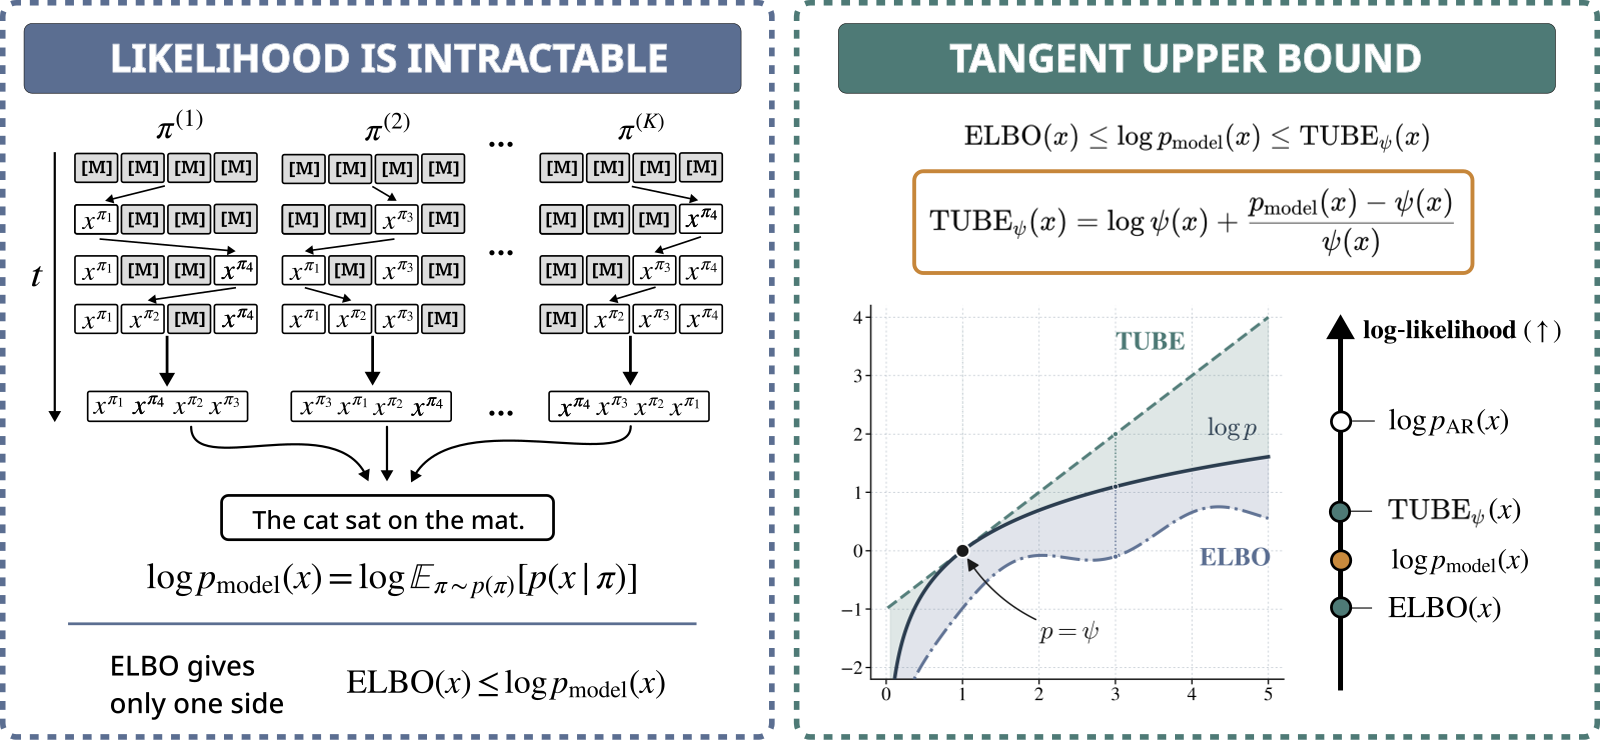
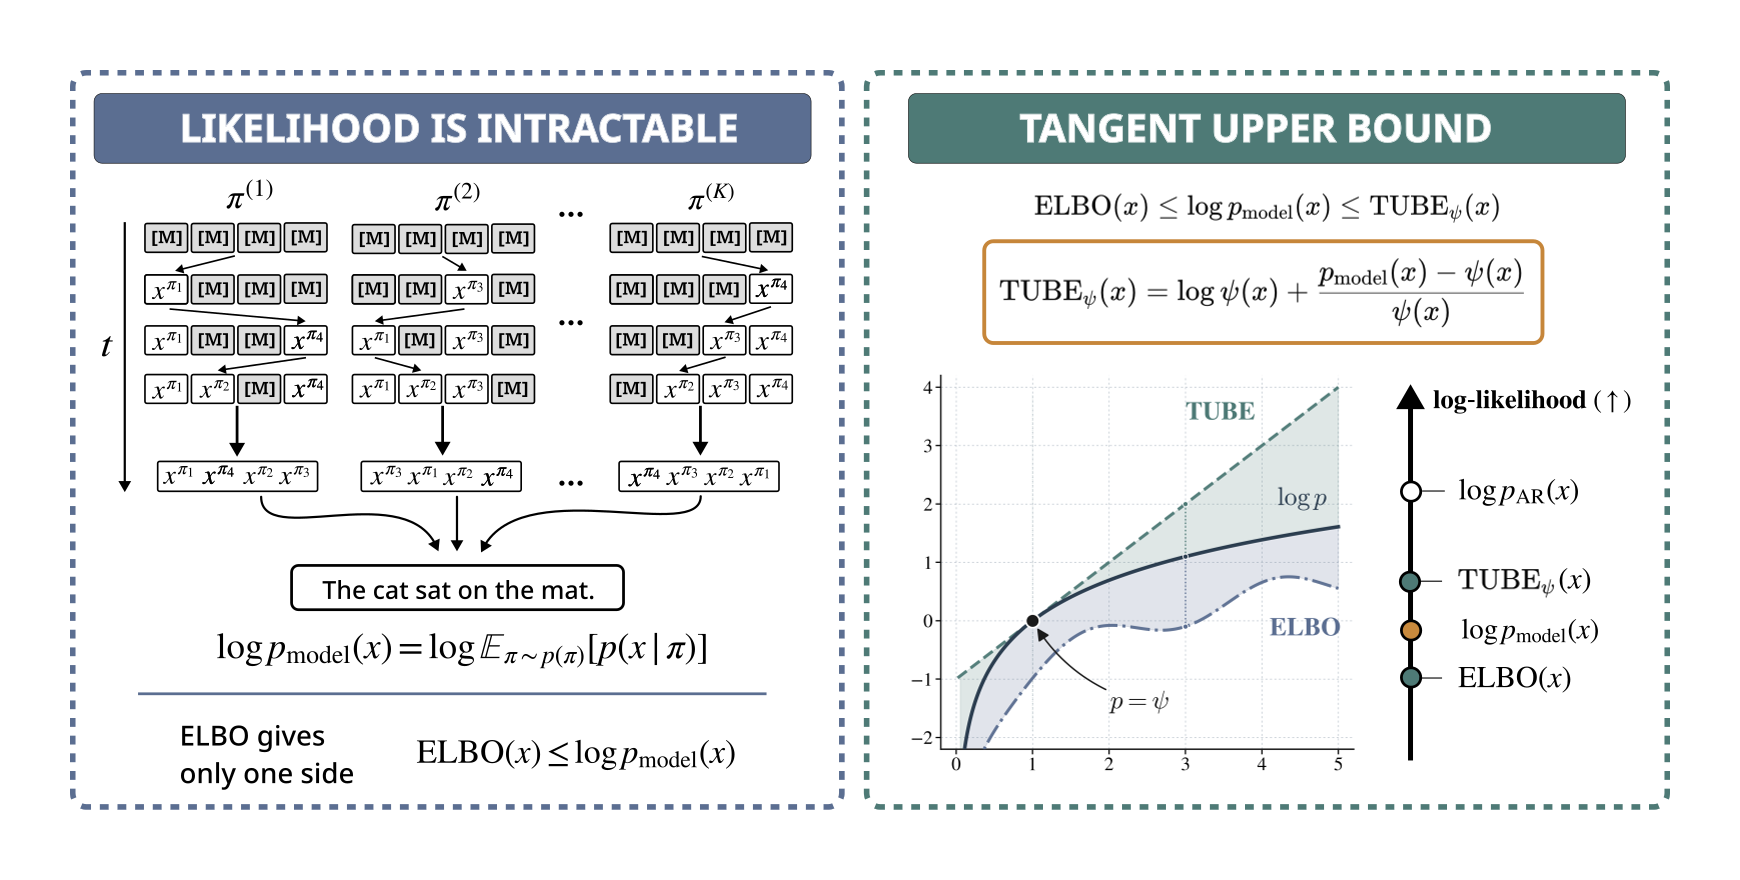
README: posterior-refinement style (authors, badges, figure, abstract)

diff --git a/README.md b/README.md
@@ -1,21 +1,32 @@
-# TUBE: Tangent Upper Bound on Evidence for Discrete Diffusion Language Models
+<h1 align="center">TUBE: Tangent Upper Bound on Evidence<br>for Discrete Diffusion Language Models</h1>
+
+<div align="center">
+
+**[Arseny Ivanov](https://scholar.google.com/citations?user=lvr79TEAAAAJ&hl=ru)**<sup>1,2,3</sup>,
+**[Sergei Kholkin](https://scholar.google.com/citations?user=KwhztSMAAAAJ&hl=en)**<sup>2</sup>,
+**[Vladislav Gromadskii](https://www.researchgate.net/profile/Vladislav-Gromadskii)**<sup>2</sup>,
+**[Grigoriy Ksenofontov](https://scholar.google.com/citations?user=e0mirzYAAAAJ&hl=ru)**<sup>2,4</sup>,
+**[Ivan Oseledets](https://scholar.google.com/citations?user=5kMqBQEAAAAJ&hl=en)**<sup>1,2</sup>,
+**[Alexander Korotin](https://scholar.google.com/citations?user=1rIIvjAAAAAJ&hl=ru)**<sup>2,1</sup>
+
+<sup>1</sup>AXXX &nbsp; <sup>2</sup>Applied AI Institute &nbsp; <sup>3</sup>HSE University &nbsp; <sup>4</sup>MIRAI
+
+[![arXiv](https://img.shields.io/badge/arXiv-2605.24292-B31B1B?style=flat&logo=arxiv)](https://arxiv.org/abs/2605.24292)
+[![Project Page](https://img.shields.io/badge/🌐_Project_Page-blue?style=flat)](https://arseny5.github.io/tube/)
+
+</div>
+
+## Official Code Repository
 
 <p align="center">
-  <img src="assets/method.png" width="92%" alt="TUBE method figure">
+  <img src="assets/method.png" width="88%">
 </p>
 
-**Code for the paper _TUBE: Tangent Upper Bound on Evidence for Discrete Diffusion Language Models_.**
+**Overview of TUBE.** *Left:* the log-likelihood of masked / any-order diffusion models is intractable, as it marginalizes over all latent generation orders. *Right:* TUBE is a tractable upper bound that, together with the ELBO, two-sidedly localizes the true log-likelihood, ELBO(x) ≤ log p(x) ≤ TUBE(x).
 
-[📄 Paper (arXiv:2605.24292)](https://arxiv.org/abs/2605.24292) · [🌐 Project page](https://arseny5.github.io/tube/)
+## Abstract
 
-TUBE is a variational **upper** bound on the log-likelihood of discrete diffusion and any-order
-models that admits an **unbiased Monte Carlo estimator**. Combined with the ELBO it two-sidedly
-localizes the true log-likelihood,
-
-$$\mathrm{ELBO}(x) \le \log p_{\mathrm{model}}(x) \le \mathrm{TUBE}_\psi(x).$$
-
-Applied to block masked-diffusion models and any-order ARMs, TUBE reveals that these models lie
-strictly below the exact autoregressive baseline in likelihood.
+Log-likelihood is a standard metric for evaluating generative models. Unfortunately, in contrast to autoregressive models (ARMs), discrete diffusion models generally do not admit exact computation of this quantity. Existing evaluations, therefore, rely on the evidence lower bound (ELBO), leaving unclear how much higher the true value may be. We address this by introducing the **Tangent Upper Bound on Evidence (TUBE)**, a variational upper bound on log-likelihood that admits an unbiased Monte Carlo estimator. Our TUBE extends across latent-variable models, including masked diffusion models (MDMs), any-order ARMs (AO-ARMs), and block variants of both. Applied to block MDMs and block AO-ARMs, TUBE reveals our key empirical finding that these models lie strictly below the exact ARM baseline, showing that ARMs still dominate in likelihood.
 
 ## Code
 
